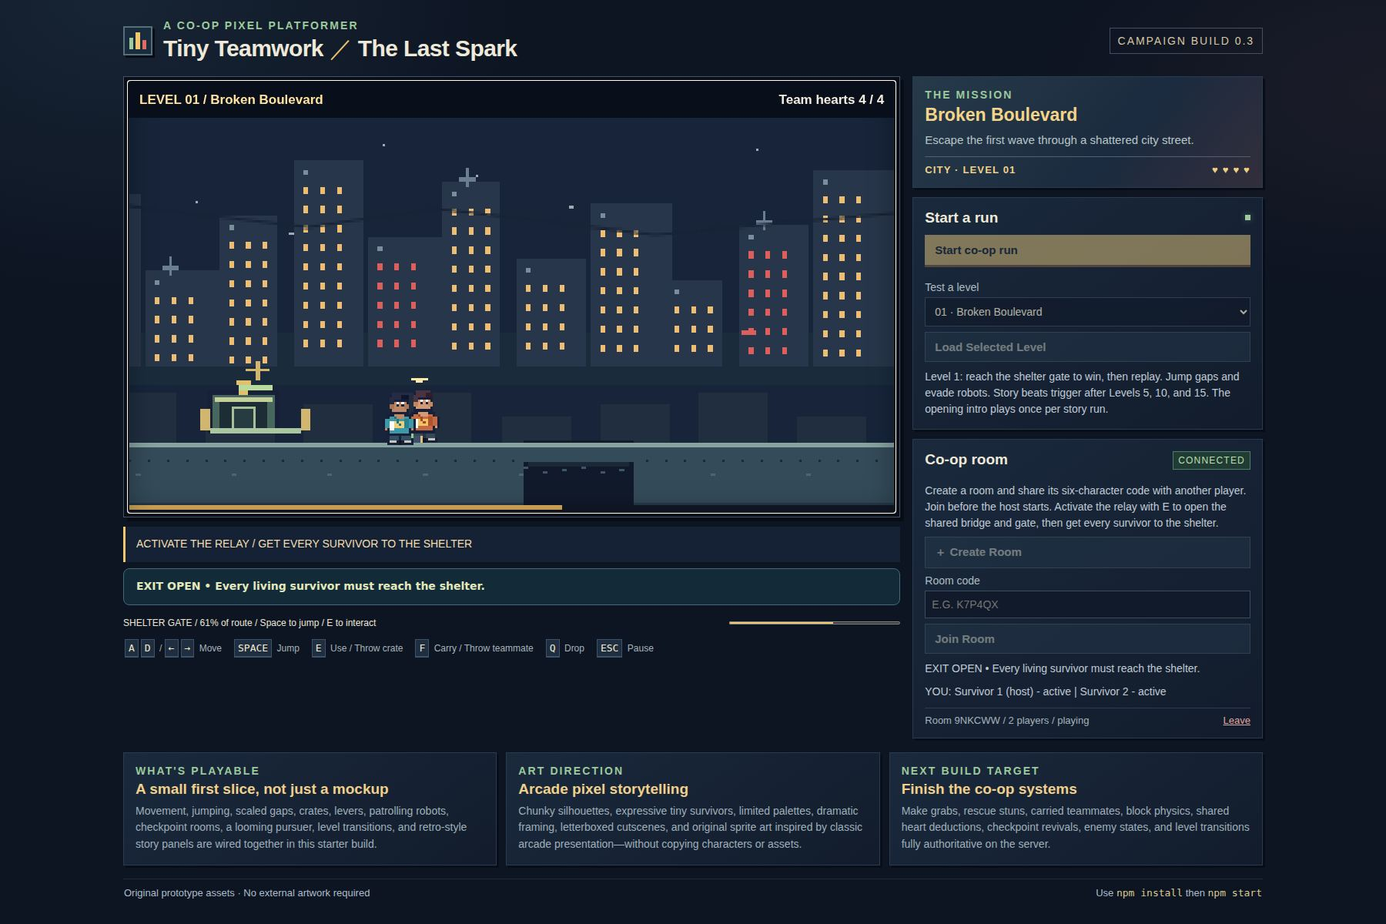
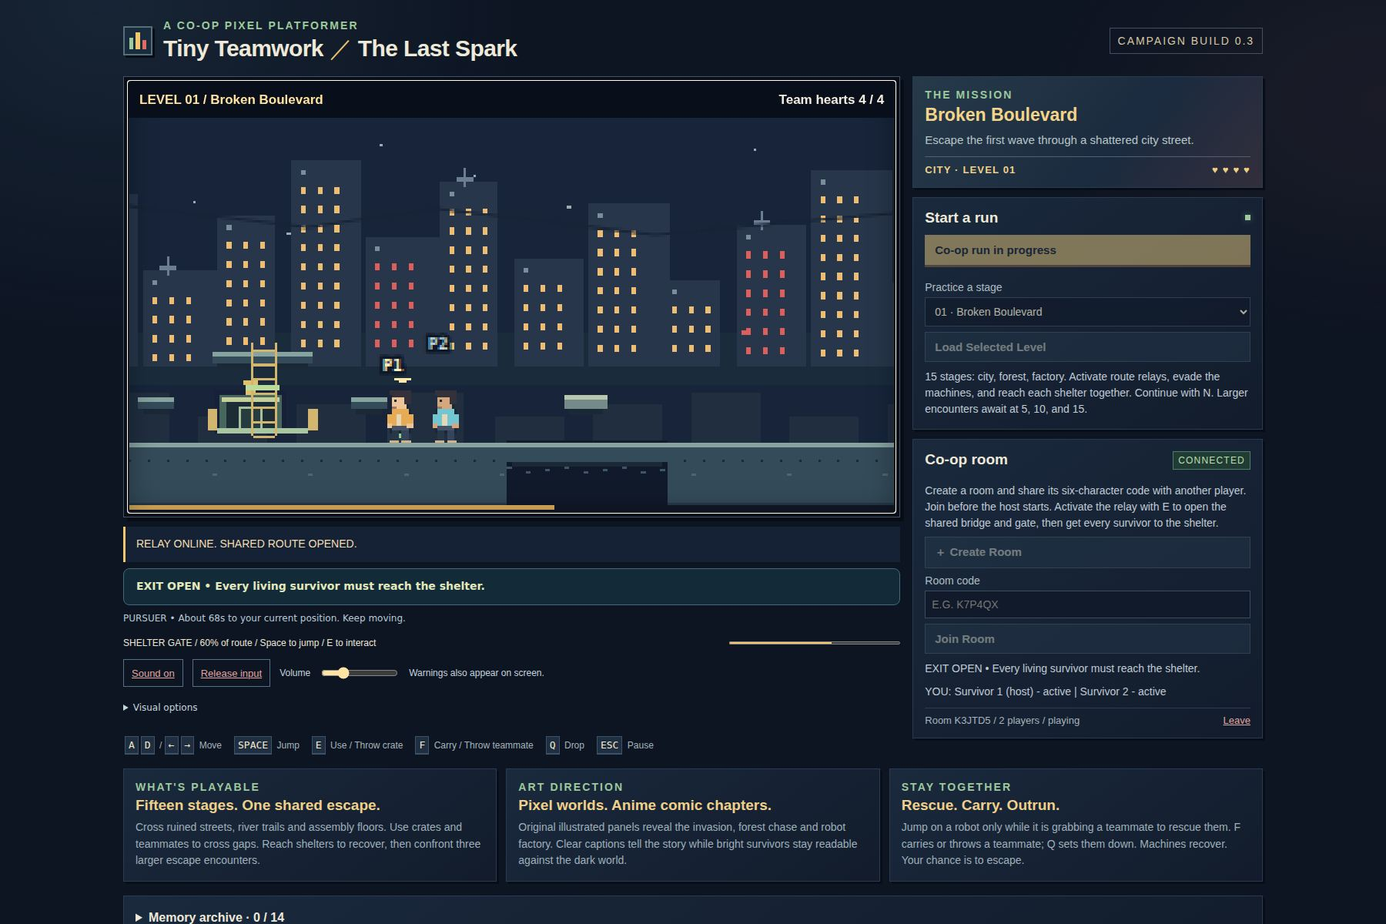
Audit shared campaign snapshots and story order on the live archive build

diff --git a/TASK_LIST.md b/TASK_LIST.md
@@ -66,7 +66,7 @@ These checks **do not** prove all mechanics work in a real browser, verify visua
 - [x] `CORE-02` · `P0` · Stabilize horizontal motion, jumping, gravity, landings, and edge collision. **Acceptance:** no falling through platforms, unintended wall clipping, double jumps, or frame-rate-dependent movement. **Verify:** automated physics tests plus browser tests at 30/60/120 Hz if available. **Status: VERIFIED** - Physics/collision suite and Chromium 156 emulated 30/60/120 callback tests PASS: identical 78.998-unit movement, jump apex 75.32-75.40, no held-jump repeat. See QA_LOG.md CORE-02 verification. Physical refresh-rate testing is not claimed.
 - [ ] `CORE-03` · `P1` · Tune camera tracking and viewport boundaries. **Acceptance:** player, pits, checkpoints, and threats remain readable; no important route is hidden off-screen. **Verify:** record one normal level and one giant-pursuer encounter.
 - [ ] `CORE-04` · `P1` · Finish mobile and gamepad controls. **Acceptance:** touch controls work with touch cancellation/blur; buttons do not leave movement stuck; gamepad is optional but documented if supported. **Verify:** test on a narrow viewport and at least one physical mobile device before marking mobile verified.
-- [ ] `CORE-05` · `P1` · Add pause/resume/restart safeguards. **Acceptance:** pause freezes enemies and timers; resume restores input; restart clears the previous run state and prevents duplicate listeners. **Verify:** pause during a jump, capture countdown, and chaser pressure. **Status: IN_PROGRESS** - Repeated retry/flow and solo jump pause pass; online Escape now clears held touch, with actual-touch browser regression pending. Online release intentionally does not pause other players.
+- [x] `CORE-05` · `P1` · Add pause/resume/restart safeguards. **Acceptance:** pause freezes enemies and timers; resume restores input; restart clears the previous run state and prevents duplicate listeners. **Verify:** pause during a jump, capture countdown, and chaser pressure. **Status: VERIFIED** - Repeated retry/reset, solo jump and pursuer-pressure pause, resume input release, online capture and held-touch safeguards PASS. Shared online time deliberately keeps running. See QA_LOG.md CORE-05 verification.
 - [ ] `CORE-06` · `P1` · Make tutorial/onboarding cues understandable. **Acceptance:** first-time user learns move, jump, interact, and evade without reading source code. **Verify:** ask a tester unfamiliar with the project to complete the first obstacle without coaching.
 
 ## Phase 2 — Multiplayer and authoritative server (`P0`)
@@ -96,9 +96,9 @@ These checks **do not** prove all mechanics work in a real browser, verify visua
 - [x] `LIFE-02` · `P0` · Implement lobby-size starting hearts and cap. **Acceptance:** pools match documented design: 1=3; 2–3=4; 4–5=5; 6–7=6; 8–9=7; 10–11=8; 12–13=9; 14+=10. Initial shipping target remains 2–4 players. **Verify:** automated boundary tests on every range transition. **Status: VERIFIED - Automated range-boundary assertions in campaign-test.mjs pass for counts 1 through 16; QA_LOG.md 2026-10-30 LIFE-02.**
 - [x] `LIFE-03` · `P0` · Implement segment-boundary recovery. **Acceptance:** at most one dead player revives per segment, longest-dead-first; if nobody is dead, restore one heart up to the cap; a revive does not also grant a heart. **Verify:** 0/1/multiple dead players and full-cap cases. **Status: VERIFIED** - Zero/one/multiple-dead, cap, oldest-first and no double benefit tests pass. See QA_LOG.md SYS audit.
 - [x] `LIFE-04` · `P0` · Implement full-level reset. **Acceptance:** at full level transition all players are active and hearts reset to party-size starting pool; checkpoint transitions do not accidentally perform a full reset. **Verify:** finish level with multiple dead players and compare next-level state. **Status: VERIFIED** - Original-party reset after departure and full-campaign transitions revive all/reset hearts. See QA_LOG.md SYS audit.
-- [ ] `LIFE-05` · `P0` · Build all pit variants with fallback routes. **Acceptance:** selected gaps scale by original lobby size; solo jump is possible where designed; group gaps can use stacking/throw/blocks; any remaining solo survivor can finish via a safe fallback. **Verify:** test party sizes 1–4 and a simulated one-survivor case across every required gap. **Status: IMPLEMENTED_UNVERIFIED** - Shared campaign implementation and automated coverage exist; full task-specific manual/adversarial acceptance remains pending. See QA_LOG.md CAMP-01 and docs/CAMPAIGN_BUILD.md.
+- [x] `LIFE-05` · `P0` · Build all pit variants with fallback routes. **Acceptance:** selected gaps scale by original lobby size; solo jump is possible where designed; group gaps can use stacking/throw/blocks; any remaining solo survivor can finish via a safe fallback. **Verify:** test party sizes 1–4 and a simulated one-survivor case across every required gap. **Status: VERIFIED** - All 60 party-size routes and 45 last-survivor routes PASS with original gaps, plus stacking/throw/block checks and 1-4-context browser campaigns. See QA_LOG.md LIFE-05/LVL-07 verification.
 - [x] `LIFE-06` · `P0` · Implement checkpoint room topology and exits. **Acceptance:** room has left, right, and overhead exits plus climbable ladder; ordinary robots cannot enter or attack into room; path-crowding rule always leaves a usable exit. **Verify:** enemies crowd ground and ceiling in separate cases; at least one exit remains reachable each time. **Status: VERIFIED** - Every shelter ladder/roof and both exits, ground/overhead enemy crowding, blocked hatch, cancellation and breach pass systems checks. Chromium own/peer roof-arrival assertions pass with corrected synchronous wait. See QA_LOG.md LIFE-06 verification.
-- [ ] `LIFE-07` · `P0` · Implement giant pursuer death/breach rules. **Acceptance:** giant advances slowly from outside view, kills instantly on contact, can destroy checkpoints, and is not killable; collision and heart cost happen once. **Verify:** test contact during normal play and inside a checkpoint room. **Status: IMPLEMENTED_UNVERIFIED** - Shared campaign implementation and automated coverage exist; full task-specific manual/adversarial acceptance remains pending. See QA_LOG.md CAMP-01 and docs/CAMPAIGN_BUILD.md.
+- [x] `LIFE-07` · `P0` · Implement giant pursuer death/breach rules. **Acceptance:** giant advances slowly from outside view, kills instantly on contact, can destroy checkpoints, and is not killable; collision and heart cost happen once. **Verify:** test contact during normal play and inside a checkpoint room. **Status: VERIFIED** - Systems checks and Chromium 156 job 123948158430 PASS actual approach, pause, normal/sheltered contact and breach, exactly one heart per death. Screenshots reviewed. See QA_LOG.md LIFE-07 verification.
 - [x] `LIFE-08` · `P1` · Add fairness telemetry for softlocks/deaths. **Acceptance:** a debug overlay/log can report deaths, time to checkpoint, last alive player, heart events, and current route. **Verify:** enable debug mode during a failed pit/revival scenario. **Status: VERIFIED** - Bounded stage reports expose timing/death/revival/heart/route state; unit isolation and Chromium pit death, report download, checkpoint revival and spectator return pass. See QA_LOG.md CORE-01/LIFE-08 evidence.
 
 ## Phase 5 — Robot enemy set (`P0/P1`)
@@ -118,7 +118,7 @@ These checks **do not** prove all mechanics work in a real browser, verify visua
 - [ ] `LVL-04` · `P1` · Level 10 covered walkway. **Acceptance:** human-only covered walkway prevents regular robots following into it; ~100 flying robots are staged overhead as a frightening visual swarm; route stays playable and readable. **Verify:** performance check with swarm effect enabled and platform collision/camera test. **Status: IMPLEMENTED_UNVERIFIED** - Shared campaign implementation and automated coverage exist; full task-specific manual/adversarial acceptance remains pending. See QA_LOG.md CAMP-01 and docs/CAMPAIGN_BUILD.md.
 - [ ] `LVL-05` · `P1` · Factory Arc, Levels 11–15. **Acceptance:** unique production lines, furnace hall, prototype wing, control foundry, and heart-of-production finale; factory destruction is a playable final objective. **Verify:** full factory playthrough with checkpoint and heart checks. **Status: IMPLEMENTED_UNVERIFIED** - Shared campaign implementation and automated coverage exist; full task-specific manual/adversarial acceptance remains pending. See QA_LOG.md CAMP-01 and docs/CAMPAIGN_BUILD.md.
 - [ ] `LVL-06` · `P1` · Add midpoint checkpoint placement. **Acceptance:** standard levels get one checkpoint near halfway; long levels get checkpoints near 1/3 and 2/3; checkpoint rooms have approved three-way exit topology. **Verify:** automated placement checks plus each route manually. **Status: IMPLEMENTED_UNVERIFIED** - Shared campaign implementation and automated coverage exist; full task-specific manual/adversarial acceptance remains pending. See QA_LOG.md CAMP-01 and docs/CAMPAIGN_BUILD.md.
-- [ ] `LVL-07` · `P1` · Enforce per-level softlock audit. **Acceptance:** puzzle solution documented and a solo survivor can reach every required exit even after teammate deaths/disconnects; big group routes remain rewarding. **Verify:** adversarial playtest each level starting with only one active player. **Status: IMPLEMENTED_UNVERIFIED** - Shared campaign implementation and automated coverage exist; full task-specific manual/adversarial acceptance remains pending. See QA_LOG.md CAMP-01 and docs/CAMPAIGN_BUILD.md.
+- [x] `LVL-07` · `P1` · Enforce per-level softlock audit. **Acceptance:** puzzle solution documented and a solo survivor can reach every required exit even after teammate deaths/disconnects; big group routes remain rewarding. **Verify:** adversarial playtest each level starting with only one active player. **Status: VERIFIED** - All 45 original 2/3/4-player maps PASS with one connected survivor, unchanged gaps, no teleport or heart refill. Fallback solutions documented; human balance review remains separate. See QA_LOG.md LIFE-05/LVL-07 verification.
 - [ ] `LVL-08` · `P1` · Implement shared objective/door completion. **Acceptance:** objective completes once, all clients agree, and cutscene/next-level transition cannot double-trigger. **Verify:** multiple players activate/enter exit at nearly the same time. **Status: IMPLEMENTED_UNVERIFIED** - Shared campaign implementation and automated coverage exist; full task-specific manual/adversarial acceptance remains pending. See QA_LOG.md CAMP-01 and docs/CAMPAIGN_BUILD.md.
 
 ## Phase 7 — Pixel-art animation, cutscenes, and audio (`P1`)
@@ -158,4 +158,4 @@ Never mark a gate `VERIFIED` while any acceptance criterion remains untested. Ke
 
 - [x] `EXTRA-02` · `P2` · Saved solo stage shortcut. **Acceptance:** reload offers the last solo stage, begins it with full hearts, rejects corrupt saves and survives blocked storage. **Status: VERIFIED** - Corrupt/blocked storage and Chromium/Firefox/WebKit reload/resume checks pass. See QA_LOG.md SYS audit.
 
-- [ ] `EXTRA-03` · `P2` · Optional memory archive. **Acceptance:** fourteen distinct fragments, discoveries shared within the active room, a readable local archive survives reload, malformed/blocked storage is harmless, and memories never gate exits or alter the ending. **Verify:** actual two-context terminal discovery, reload/fresh-context isolation and storage tests. **Status: IN_PROGRESS** - Implemented local archive and unique fragment text; unit/full npm checks pass, browser interaction pending.
+- [x] `EXTRA-03` · `P2` · Optional memory archive. **Acceptance:** fourteen distinct fragments, discoveries shared within the active room, a readable local archive survives reload, malformed/blocked storage is harmless, and memories never gate exits or alter the ending. **Verify:** actual two-context terminal discovery, reload/fresh-context isolation and storage tests. **Status: VERIFIED** - Unique-fragment/storage tests and Chromium 156 job 123948158430 PASS actual two-context terminal discovery, shared read, reload persistence and fresh-browser isolation. Archive screenshot reviewed. See QA_LOG.md EXTRA-03 verification.

diff --git a/docs/PROJECT_STATUS.md b/docs/PROJECT_STATUS.md
@@ -1,33 +1,31 @@
 # Implementation status
 
-Updated October 30, 2026, 07:17 UTC.
+Updated October 30, 2026, 07:53 UTC.
 
-GitHub connection MummblingThinker has repository write access. Render My Workspace (tea-dbhakd8u01pc73ap1ou0), service srv-dbhnfcm1egvs73817n4g. Public game: https://tiny-teamwork-last-spark.onrender.com.
+GitHub MummblingThinker has admin/push access to MummblingThinker/1k-Game-Project-Only-AI-. Render My Workspace tea-dbhakd8u01pc73ap1ou0, service srv-dbhnfcm1egvs73817n4g. Public game: https://tiny-teamwork-last-spark.onrender.com.
 
-## Live build and deployment hold
+## Deployment and source
 
-LIVE 1f92e6622c015a1421ab3992c2412b6a90627b76, Render dep-dbi3u8ks728c73c99oi0, finished 06:55:27 UTC. All five regression jobs 41016386596 PASS. Includes distinct cached robot frames, shelter ladder, 16-pose survivors and visible Colossus core terminal.
+LIVE b724817d49f5b5360e709b02e97da4f1345fdfac, Render dep-dbi4pejbc2fs73a425rg finished 07:53:21 UTC. Previous live 1f92e6622c015a1421ab3992c2412b6a90627b76 passed public 2/4-player campaigns, run 41017210764. New public runs triggered by this evidence/harness commit; do not redeploy during their active rooms.
 
-Do not redeploy while public campaign run 41017210764 has active rooms. Test source 6e1a7fbf, live 1f92e662; two-player job 123936155114 in progress, four-player job 123936155451 queued, sequential matrix. Public short browser runs 41015527881 and 41017210822 failed narrow ladder/relay positioning waits; HTTPS/assets and WSS tests passed. Settled alignment and diagnostics added, rerun still needed.
+b724 regression 41021033996 all five jobs PASS. Full browser 41021034139 all 1/2/3/4 PASS; three-player run recorded real game overs/replays on Levels 3 and 15, then cleared. Others completed without replay. This is automated browser evidence, not human balance certification.
 
-## Current main and pending work
+Pending source-only publication: exact caption-order/ending-blackout assertions, cross-client complete-snapshot comparison, current cover and evidence/docs updates. Trigger public-browser/public-campaign workflows only once b724 is live. Hold further deployments while public campaign rooms are active. Prior short public checks failed narrow relay/ladder test-driver positioning; settled alignment is now tested locally but public rerun remains required.
 
-Main 719ff205c2d36a8b31749fe2fff1faa7c44810e2 fixes online Escape retaining held touch. CI 41017800136 all five jobs PASS. Pending local additions: renderer benchmark/workflow, stronger below-roof ladder-start assertion, evidence index and this handoff. Publish after checks. No gameplay rules changed by benchmark/harness.
+## Current checks
 
-Full browser matrix 41017210744 on 6e1a7fbf PASS at 1/2/3/4; earlier 41013264131 also PASS all 15/default stories without game-over replay. Exact job logs still need collecting for latest matrix. Extended random audit PASS 1200 cases/5,074,324 ticks. Single-survivor audit PASS all 45 unchanged 2/3/4-player maps. Abuse limits and isolation PASS; QA-009 verified. Board evidence audit covers 28 existing verified tasks; SYS-04 added after audit.
-
-## Active and completed local checks
-
-- ACTIVE 1244: two-hour eight-room/32-client soak on ladder source, started 06:07 UTC; artifacts/soak-ladder-8-7200.log. Expected about 08:08 UTC. Do not restart.
-- COMPLETE 4272: extended seeded audit, artifacts/adversarial-1200-7200.log.
-- COMPLETE 17135: npm test after mixed-input fix, artifacts/mixed-input-test.log.
-- COMPLETE 66167: clean source extraction PASS, 94 files, artifacts/release-verify-0708.log; archive will be refreshed at cutoff.
-- Earlier one-hour soak PASS: 265080 checks/688 resets, peak RSS 195.04 MiB, cleanup zero rooms. Local stability, not Render capacity.
+- ACTIVE session 1244: two-hour eight-room/32-client soak on ladder source, started 06:07 UTC, artifacts/soak-ladder-8-7200.log; expected about 08:08 UTC. Do not restart.
+- Extended enemy-fix audit PASS: 1200 cases/5,074,324 ticks, artifacts/adversarial-same-tick-1200.log.
+- Latest npm test PASS: artifacts/memory-archive-test.log. New audit helper self-check/syntax PASS.
+- Giant contact/pause/shelter breach and two-context memory discovery/reload/isolation PASS Chromium 156 job 123948158430. Screenshots inspected.
+- Benchmark: eight full/reduced renderer scenes, median 0.3-0.4ms, p95 0.4-0.6ms in CI; physical hardware unverified.
+- Task guard PASS 34 verified entries. New LIFE-05/LIFE-07/LVL-07/CORE-05/EXTRA-03 evidence recorded.
+- Cover refreshed from actual 1800x1200 two-player screenshot. Source ZIP needs final refresh; previous clean extraction passed.
 
 ## Features and limits
 
-15 authored stages; normal maps 3x reference, milestone maps 5.5/6/6.5x. Pursuer crosses normal maps in 120 seconds after an eight-second warning and cannot enter boss zones. Distinct Level 5 relay sequence, Level 10 covered survival encounter and Level 15 background Colossus/core cycles. Water, conveyors, breakable salvage, pressure bridges, optional memories, carry/throw/stack/rescue, shared hearts/revival and spectator controls. Original anime comic atlases, cached pixel characters/machines, native captions, saved sound/visual options, touch controls and stage reports.
+15 authored stages; normal maps 3x reference and milestone maps 5.5/6/6.5x. Pursuer crosses normal maps in 120 seconds after warning and cannot enter boss zones. Level 5 relay puzzle, Level 10 covered survival, Level 15 background Colossus/core cycles. Water, conveyors, breakable salvage, pressure bridges, fourteen optional memories/local archive, carry/throw/stack/rescue, shared hearts/revival, spectator controls, three-way shelter exits. Original anime comic atlases, cached survivor/machine animation, native captions, saved audio/visual options, touch controls and stage reports.
 
-Physical-device/network acceptance, human difficulty/onboarding and speaker/headphone review remain deferred. MVP-03/MVP-04 are not falsely marked verified. No contest submission. One Node process, rooms 1-4, join before start; disconnect clears identity/new lobby, no persistent reconnect/cloud save.
+Physical devices/network acceptance, human onboarding/difficulty and speaker/headphone review remain deferred. MVP-03/MVP-04 not falsely verified; no contest submission. One Node process, 1-4 players, join before start; disconnect/new lobby policy, no persistent reconnect/cloud save.
 
-Continue until 06:00 America/New_York October 30 (10:00 UTC). Before cutoff refresh final cover/archive, run appropriate checks, publish tested changes and save exact handoff. TASK_LIST.md is canonical; QA_LOG.md preserves passes and failures.
+Continue until 06:00 America/New_York October 30 (10:00 UTC). Refresh final archive/handoff, run checks and publish tested changes before cutoff. TASK_LIST.md canonical; QA_LOG.md preserves failures and passes.

diff --git a/QA_LOG.md b/QA_LOG.md
@@ -615,3 +615,15 @@ Added browser-performance-test.mjs: 240 measured native-canvas frames after warm
 - Public four-player job 123936155451 PASS all 15/default stories and own-room cleanup at 07:28:11 UTC, run 41017210764, test 6e1a7fbf/live 1f92e662. No game-over replay logged. Both public matrix jobs passed; deployment hold for those test rooms is lifted.
 - 83ad57c5 regression 41020124562 main/flow/Firefox/WebKit PASS. Rescue interaction passed, but the new giant test timed out before shelter breach. Its 35-second wait incorrectly assumed the normal-map walking speed; the tutorial is intentionally calibrated to its own 120-second crossing. Replaced fixed breach timeout with actual remaining distance/speed/wake time plus margin. First approach/pause/one-heart contact assertions already passed. No game timing changed. Full matrix 41020124535 still active.
 - EXTRA-03: fourteen unique original memory fragments and a local native-text archive implemented. Shared world read adds the fragment for each current teammate; archive survives replay/reload when storage works, remains session-only with an explicit save failure message otherwise. No required objective or ending changes. npm test PASS, artifacts/memory-archive-test.log; corruption/type/range/deduplication/blocked-storage tests pass. Actual two-context terminal discovery/reload/isolation harness added; browser execution pending.
+
+## 2026-10-30 giant, archive and pause verification (07:50 UTC)
+
+- b724817d regression 41021033996 all five jobs PASS: main 123948158583, flow 123948158339, Firefox 123948158358, WebKit 123948158390 and rescue/giant/memory 123948158430. Chromium 156.0.8078.4. Preceding full gameplay matrix 41020124535 on 83ad57c5 PASS at 1/2/3/4 (jobs 123945295058/123945295132/123945295111/123945294817).
+- LIFE-07 VERIFIED: node scripts/browser-giant-test.mjs in job 123948158430 PASS actual keyboard approach, pause freezing tick/position, instant contact spending exactly one heart, actual shelter approach and destruction of roof/steps, and one fatal event inside the shelter. Detached observations only, no state mutation. systems-test.mjs passes contact despite invulnerability and boss exclusion. artifacts/giant-review.jpg and breach-review.jpg inspected: giant readable, shelter roof gone, survivor in camera.
+- EXTRA-03 VERIFIED: node scripts/browser-memory-test.mjs in that job PASS two independent contexts reaching Level 2 terminal via inputs, shared discovery, archive count/text, reload persistence and unrelated fresh-browser isolation. check-project.mjs validates fourteen distinct fragments, corrupt/type/range/duplicate saves and blocked storage; npm test PASS artifacts/memory-archive-test.log. artifacts/memory-review.jpg inspected: native text readable, save status explicit. Full campaigns pass without optional terminals; ending/objectives unchanged.
+- CORE-05 VERIFIED: repeated retry/title transitions and listener/state safeguards PASS browser flow; main browser solo mid-jump pause freezes height/tick/pursuer wake, resume clears input. Giant test above pauses under actual pressure. Online capture check intentionally keeps shared countdown running after Escape; actual held-touch Escape stops local input (123948158583 and 123937976842). No global online pause is promised.
+- LIFE-05 / LVL-07 VERIFIED: node scripts/last-survivor-test.mjs PASS 45 original 2/3/4-player maps with last slot connected, preserving gaps/cap; ordinary inputs, no teleport/hazard removal/heart refill. npm test PASS 60 full party-size routes and systems stacking/throw/block checks. Fallback solutions per stage in docs/CAMPAIGN_BUILD.md. Full 1/2/3/4 browser matrix above PASS. Human difficulty/onboarding remains open.
+- Current 1800x1200 cover from main job 123948158583 inspected: two survivors, clear HUD/relay/bridge and archive. Replaces older cover without image manipulation. Physical-device review and human submission remain deferred.
+
+- b724817d full browser matrix 41021034139 PASS all four: solo 123948158860, two 123948159018, three 123948159009, four 123948158941. Three-player run had recorded game overs/replays on Levels 3 and 15 (pit deaths), then completed. Other runs used one attempt per stage. No loss omitted or state repaired by harness. Render dep-dbi4pejbc2fs73a425rg LIVE b724817d at 07:53:21 UTC.
+- Added exact default caption-order and final visible-blackout assertions to full campaigns. New snapshot-audit.mjs compares complete shared payload hashes across peers, excluding only recipient-specific you/playerId, distinguishing ordered broadcasts within the same tick. Self-check PASS recipient difference accepted and injected shared-world difference detected. Require over 100 matching snapshots per stage; full local/public executions pending. No production protocol changes.

diff --git a/README.md b/README.md
@@ -63,7 +63,7 @@ Read [PRIORITY_ROADMAP.md](PRIORITY_ROADMAP.md), [TASK_LIST.md](TASK_LIST.md), [
 
 `public/` contains client/shared simulation/art; `server/` the authoritative service; `scripts/` tests and source packaging; `submission/` draft materials; `docs/` design and implementation notes. Original story-art provenance and exact prompt: [STORY_ART_PROMPT.md](docs/STORY_ART_PROMPT.md).
 
-`npm run test:adversarial` checks stack stability and seeded carry/capture/disconnect invariants. `node scripts/live-sequence-test.mjs` runs the entire campaign with real socket clients and unskipped synchronized story timing; TEST_PARTY chooses 2?4 players. These remain automated tests, not physical devices.
+`npm run test:adversarial` checks stack stability and seeded carry/capture/disconnect invariants. `node scripts/live-sequence-test.mjs` runs the entire campaign with real socket clients and unskipped synchronized story timing; TEST_PARTY chooses 2-4 players. These remain automated tests, not physical devices.
 
 Solo stage resume is saved in this browser and restarts the last begun solo/practice stage with full hearts. It does not save within-stage progress or multiplayer rooms. Storage being unavailable does not prevent play. Online survivor motion is smoothed visually between server snapshots; collisions, timers and actions always use the authoritative server state.
 

diff --git a/docs/PRACTICE_GUIDE.md b/docs/PRACTICE_GUIDE.md
@@ -40,6 +40,8 @@ There are 15 stages. Normal maps are about three times the Level 1 reference; Le
 
 The game uses shared hearts. A fatal hit costs one; downed players watch a living teammate until revived. Completing a stage restores the original party's heart pool and all remaining survivors.
 
+Optional blue MEMORY / E terminals in stages 2-15 reveal fourteen story fragments. Discoveries are shared with your current teammates and collected in the Memory archive below the game. The archive saves in this browser when storage is available. It never changes the required objectives or ending.
+
 ## Run locally
 
 Use the current source checkout or extract `release/TinyTeamwork-source.zip`. Node 22 or newer is required. In the project folder:
